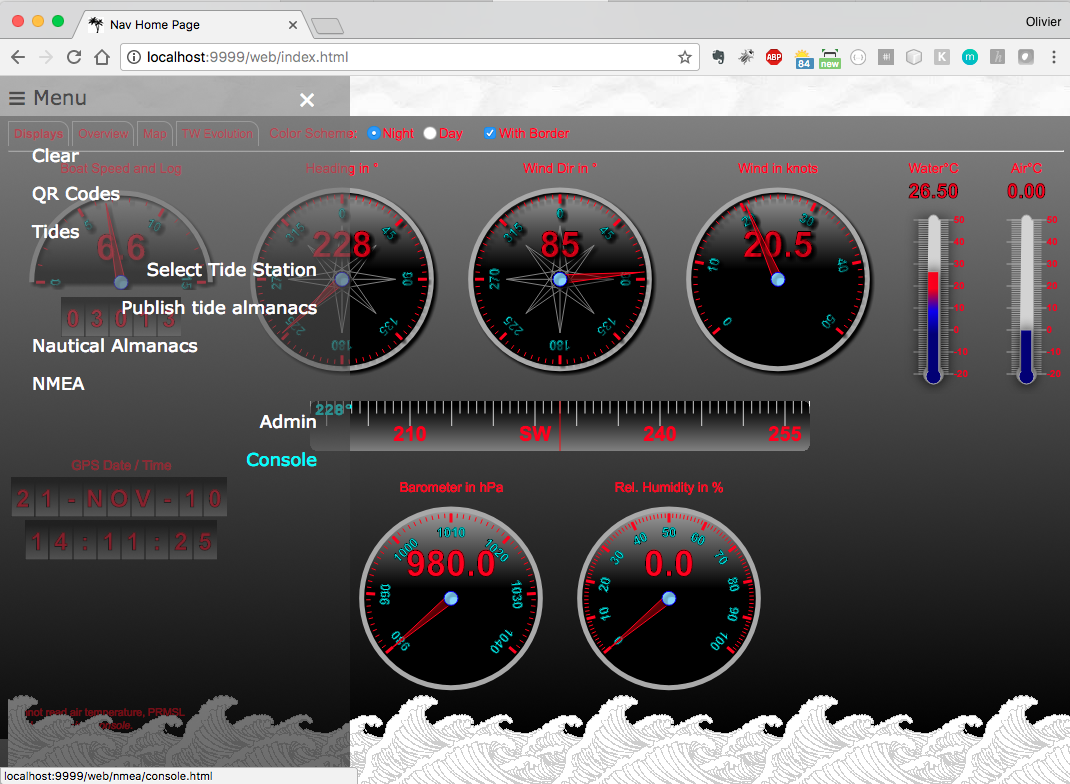
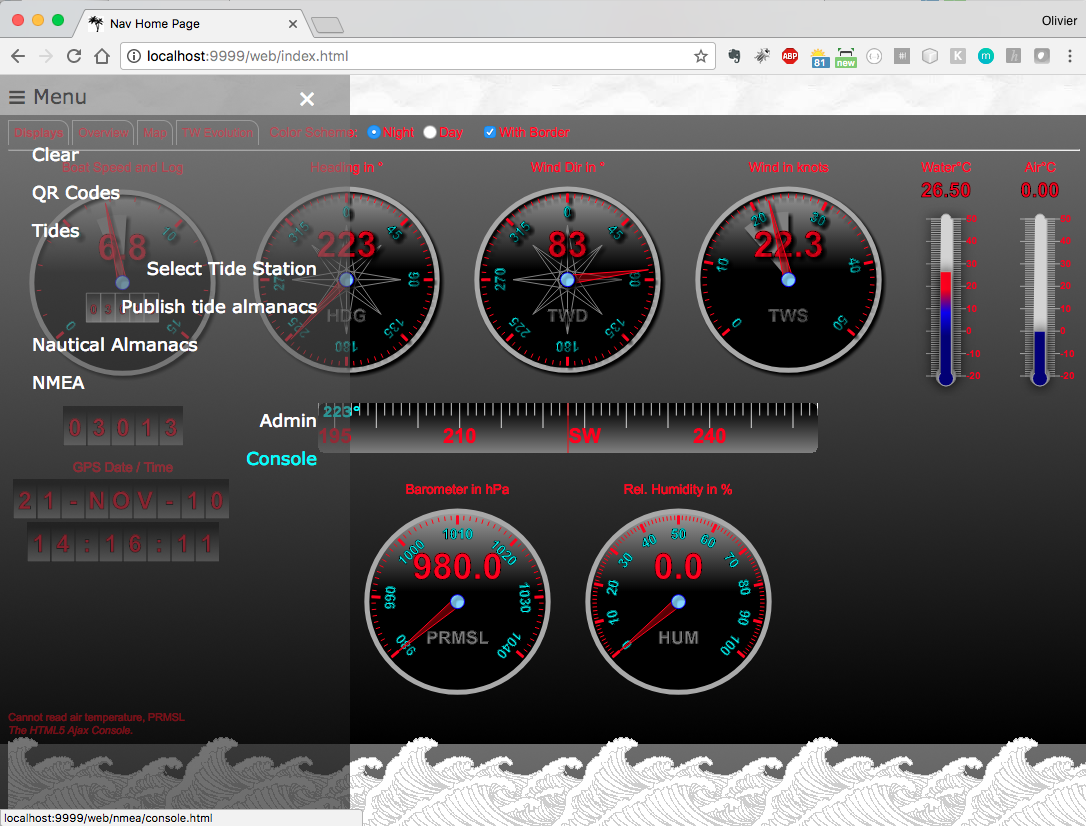
Screenshot updated

Changed region(s): [[0.0, 0.0, 1.0, 1.0], [0.0, 0.9796, 0.2159, 1.0]]

diff --git a/RESTNavServer/web/js/console.js b/RESTNavServer/web/js/console.js
@@ -16,6 +16,8 @@ var init = function () {
 //displayBSP = new AnalogDisplay('bspCanvas', 100, 15, 5, 1);
 	displayBSP = new AnalogDisplay('bspCanvas', 100, 15, 5, 1, true, 40);
 	displayBSP.setDigits(5);
+	displayBSP.setWithMinMax(true);
+
 	displayLog = new NumericDisplay('logCanvas', 60, 5);
 
 	displayHDG = new Direction('hdgCanvas', 100, 45, 5, true);
@@ -24,6 +26,7 @@ var init = function () {
 	displayTWD.setLabel('TWD');
 	displayTWS = new AnalogDisplay('twsCanvas', 100, 50, 10, 1, true, 40);
 	displayTWS.setLabel('TWS');
+	displayTWS.setWithMinMax(true);
 	thermometer = new Thermometer('tmpCanvas', 200);
 	athermometer = new Thermometer('atmpCanvas', 200);
 	rose = new CompassRose('roseCanvas', 400, 50);

diff --git a/RESTNavServer/web/widgets/AnalogDisplay.js b/RESTNavServer/web/widgets/AnalogDisplay.js
@@ -400,7 +400,7 @@ function AnalogDisplay(cName,                     // Canvas Name
 			context.closePath();
 		}
 
-		// Digits? Note: not compatible with label (above)
+		// Digits? Note: not compatible with label (above), would hide it.
 		if (digits !== undefined) {
 			var oneDigitWidth = (canvas.width / 3) / digits;
 			var oneDigitHeight = oneDigitWidth * 2; // (canvas.height / 6);
